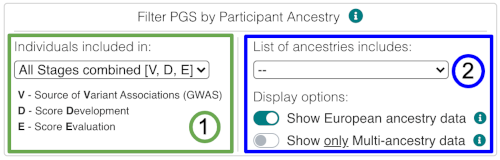
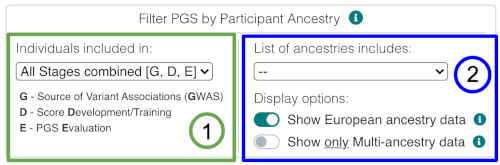
Change the letter 'V' by 'G' and update individuals display

Changed region(s): [[0.0, 0.0, 1.0, 1.0]]

diff --git a/catalog/templates/catalog/docs/ancestry.html b/catalog/templates/catalog/docs/ancestry.html
@@ -89,7 +89,7 @@
         <tbody>
           <!-- Source of Variant Associations (GWAS) -->
           <tr>
-            <td class="pgs_bg_light_grey"><b>Source of <span class="pgs_color_1">V</span>ariant Associations<br/>(GWAS)</b></td>
+            <td class="pgs_bg_light_grey"><b>Source of Variant Associations<br/>(<span class="pgs_color_1">G</span>WAS)</b></td>
             <td>
               <p>
                 Count the total number of individuals in each ancestry display category across all GWAS samples used to develop the score. Samples are labelled Multi-ancestry (including or excluding Europeans) if ancestry-specific numbers are not available (<i>see example</i>).
@@ -212,16 +212,16 @@
       <table class="table table-bordered table-left-col-filled">
         <tbody>
           <tr>
-            <td><b>All Stages combined</b> <span class="text-nowrap">[<span class="pgs_color_1">V</span>, <span class="pgs_color_1">D</span>, <span class="pgs_color_1">E</span>]</span></td>
-            <td>Corresponds to the combination of the stages "Source of <span class="pgs_color_1">V</span>ariant Associations (GWAS)", "Score <span class="pgs_color_1">D</span>evelopment/Training" and "Score <span class="pgs_color_1">E</span>valuation".</td>
+            <td><b>All Stages combined</b> <span class="text-nowrap">[<span class="pgs_color_1">G</span>, <span class="pgs_color_1">D</span>, <span class="pgs_color_1">E</span>]</span></td>
+            <td>Corresponds to the combination of the stages "Source of Variant Associations (<span class="pgs_color_1">G</span>WAS)", "Score <span class="pgs_color_1">D</span>evelopment/Training" and "Score <span class="pgs_color_1">E</span>valuation".</td>
           </tr>
           <tr>
-            <td><b>Development</b> <span class="text-nowrap">[<span class="pgs_color_1">V</span>, <span class="pgs_color_1">D</span>]</span></td>
-            <td>Corresponds to the combination of the stages "Source of <span class="pgs_color_1">V</span>ariant Associations (GWAS)" and "Score <span class="pgs_color_1">D</span>evelopment/Training"</td>
+            <td><b>Development</b> <span class="text-nowrap">[<span class="pgs_color_1">G</span>, <span class="pgs_color_1">D</span>]</span></td>
+            <td>Corresponds to the combination of the stages "Source of Variant Associations (<span class="pgs_color_1">G</span>WAS)" and "Score <span class="pgs_color_1">D</span>evelopment/Training"</td>
           </tr>
           <tr>
-            <td><b>GWAS</b> <span class="text-nowrap">[<span class="pgs_color_1">V</span>]</span></td>
-            <td>Corresponds to the stage "Source of <span class="pgs_color_1">V</span>ariant Associations (GWAS)".</td>
+            <td><b>GWAS</b> <span class="text-nowrap">[<span class="pgs_color_1">G</span>]</span></td>
+            <td>Corresponds to the stage "Source of Variant Associations (<span class="pgs_color_1">G</span>WAS)".</td>
           </tr>
           <tr>
             <td><b>Score Development/Training</b> <span class="text-nowrap">[<span class="pgs_color_1">D</span>]</span></td>
@@ -271,7 +271,7 @@
           <table class="table table-bordered table-left-col-filled">
             <tbody>
               <tr>
-                <td>Study stage:</td><td>GWAS <span class="text-nowrap">[<span class="pgs_color_1">V</span>]</span></td>
+                <td>Study stage:</td><td>GWAS <span class="text-nowrap">[<span class="pgs_color_1">G</span>]</span></td>
               </tr>
               <tr>
                 <td>List of ancestries includes:</td><td><span class="mr-3">--</span><small class="text-nowrap">[default option]</small></td>
@@ -290,7 +290,7 @@
           <table class="table table-bordered table-left-col-filled">
             <tbody>
               <tr>
-                <td>Study stage:</td><td>Development <span class="text-nowrap">[<span class="pgs_color_1">V</span>, <span class="pgs_color_1">D</span>]</span></td>
+                <td>Study stage:</td><td>Development <span class="text-nowrap">[<span class="pgs_color_1">G</span>, <span class="pgs_color_1">D</span>]</span></td>
               </tr>
               <tr>
                 <td>List of ancestries includes:</td><td><span class="mr-3">--</span><small class="text-nowrap">[default option]</small></td>

diff --git a/catalog/static/catalog/pgs.scss b/catalog/static/catalog/pgs.scss
@@ -18,10 +18,12 @@ $pgs_light_grey2: #FAFAFA;
 $pgs_note_title_1: $pgs_colour_1;
 $pgs_note_title_2: #F00;
 $pgs_note_title_3: $pgs_colour_2;
-$pgs_dev: #577284;
 $pgs_facet_1: $pgs_colour_2;
-$pgs_facet_2: #f58f22;
+$pgs_facet_2: #F58F22;
 $pgs_facet_3: $pgs_dark2;
+$pgs_cases: #3E95CD;
+$pgs_controls: #8E5EA2;
+$pgs_male: #F18F2B;
 
 $pgs_colour_red: #E00;
 $pgs_colour_amber: #FFA500;
@@ -783,7 +785,6 @@ td > ul {
 /* Icons related CSS */
 .external-link:after {
   font-family: "Font Awesome 5 Free";
-  //content:"\f08e";
   content: "\f35d";
   display: inline-block;
   font-size: 0.6rem;
@@ -1190,6 +1191,30 @@ a.link-with-btn {
   div {
     padding: 15px 0px;
   }
+}
+
+.individuals_count:before,
+.sample_individuals:before,
+.sample_cases:before,
+.sample_controls:before,
+.sample_male:before
+ {
+  font-family: "Font Awesome 5 Free";
+  content: "\f007";
+  font-weight: 400;
+  padding-right: 8px;
+}
+.individuals_count:before {
+  padding-right: 4px !important;
+}
+.sample_cases:before {
+  color: $pgs_cases;
+}
+.sample_controls:before {
+  color: $pgs_controls;
+}
+.sample_male:before {
+  color: $pgs_male;
 }
 
 .sample_sub_section {
@@ -1669,15 +1694,15 @@ footer {
     margin-bottom:$footer_height_mobile;
   }
   .container-fluid {
-    padding-left: 1rem;
-    padding-right:1rem;
+    padding-left: 0.5rem;
+    padding-right:0.5rem;
   }
   .release_label {
     top: -25px;
   }
 
   .feedback {
-    width: 53px;
+    width: 60px;
     height:auto;
     #feedback-btn {
       height: 25px;

diff --git a/catalog/templates/catalog/pss.html b/catalog/templates/catalog/pss.html
@@ -79,17 +79,15 @@
               <tbody>
                 <tr>
                   <td>Total number</td>
-                  <td><b> {{ sample.display_sample_number_total }}</b></td>
+                  <td><div class="sample_individuals"><b>{{ sample.display_sample_number_total }}</b></div></td>
                 </tr>
                 {% if sample.display_sample_number_detail|length > 0 %}
                   <tr>
                     <td>Detailed numbers</td>
                     <td>
-                      <ul>
-                        {% for numbers in sample.display_sample_number_detail %}
-                          <li>{{ numbers }}</li>
-                        {% endfor %}
-                      </ul>
+                      {% for numbers in sample.display_sample_number_detail %}
+                        {{ numbers|safe }}
+                      {% endfor %}
                     </td>
                   </tr>
                 {% endif %}

diff --git a/catalog/static/catalog/pgs.js b/catalog/static/catalog/pgs.js
@@ -1,6 +1,6 @@
 
 var anc_types = {
-  'gwas': 'V',
+  'gwas': 'G',
   'dev' : 'D',
   'eval': 'E'
 };
@@ -52,11 +52,15 @@ $(document).ready(function() {
       var anc_width = 40;
       var anc_height = 40;
 
+      // Magic formula to convert RGB colours to HEX
+      const rgb2hex = (rgb) => `#${rgb.match(/^rgb\((\d+),\s*(\d+),\s*(\d+)\)$/).slice(1).map(n => parseInt(n, 10).toString(16).padStart(2, '0')).join('')}`
+
       anc_colours = {};
       $('.ancestry_box_legend').each(function() {
         var key = $(this).data('key');
         var colour = $(this).css('color');
-        anc_colours[key] = colour;
+        var hex_colour = rgb2hex(colour);
+        anc_colours[key] = hex_colour;
       });
 
       var anc_svgs = {};

diff --git a/catalog/templates/catalog/pgs_catalog_django_table.html b/catalog/templates/catalog/pgs_catalog_django_table.html
@@ -14,6 +14,7 @@
           data-pagination="true"
           data-page-size="15"
           data-page-list="[15, 25, 50, 100, 200, All]"
+          data-show-fullscreen="true"
           data-export-data-type="all"
           data-export-types="['json', 'xml', 'csv', 'txt', 'excel']">
             {% block table.thead %}

diff --git a/catalog/tables.py b/catalog/tables.py
@@ -419,6 +419,7 @@ class Browse_ScoreTableExample(Browse_ScoreTable):
             "data-show-columns" : "false",
             "data-show-export" : "false",
             "data-pagination" : "false",
+            "data-show-fullscreen" : "false",
             "data-search" : "false"
         }
         template_name = 'catalog/pgs_catalog_django_table.html'
@@ -543,6 +544,7 @@ class SampleTable_performance(tables.Table):
         attrs = {
             "id": "samples_table",
             "data-show-columns" : "true",
+            "data-show-toggle" : "true",
             "data-sort-name" : "display_sampleset",
             "data-export-options" : '{"fileName": "pgs_sample_evaluation_data"}'
         }
@@ -585,6 +587,7 @@ class PerformanceTable(tables.Table):
         attrs = {
             "id": "performances_table",
             "data-show-columns" : "true",
+            "data-show-toggle" : "true",
             "data-sort-name" : "id",
             "data-export-options" : '{"fileName": "pgs_performance_metrics_data"}'
         }
@@ -599,8 +602,8 @@ class PerformanceTable(tables.Table):
     def render_sampleset(self, value):
         ancestry_key = value.samples_combined_ancestry_key
         ancestry = constants.ANCESTRY_GROUP_LABELS[ancestry_key]
-        count_ind = common.individuals_format(value.count_individuals)
-        return format_html('<a href="#{}">{}</a><span class="only_export">|</span><div class="small"><i class="fas fa-square anc_colour_{}"></i> {}</div><span class="only_export">|</span><div class="small"><i class="far fa-user"></i> {}</div>', value, value, ancestry_key, ancestry,count_ind)
+        count_ind = common.individuals_format(value.count_individuals,True)
+        return format_html('<a href="#{}">{}</a><span class="only_export">|</span><div class="small"><i class="fas fa-square anc_colour_{} mr-1"></i>{}<span class="only_export">|</span>{}</div>', value, value, ancestry_key, ancestry,count_ind)
 
     def render_score(self, value):
         return score_format(value)

diff --git a/catalog/views.py b/catalog/views.py
@@ -99,14 +99,14 @@ def ancestry_form():
               <div style="float:left">
                 <div class="filter_subheader mb-1">Individuals included in:</div>
                   <select id="ancestry_type_list">
-                    <option value="all" selected>All Stages combined [V, D, E]</option>
-                    <option value="dev_all">Development [V, D]</option>
-                    <option value="gwas">&nbsp;&nbsp;- GWAS [V]</option>
+                    <option value="all" selected>All Stages combined [G, D, E]</option>
+                    <option value="dev_all">Development [G, D]</option>
+                    <option value="gwas">&nbsp;&nbsp;- GWAS [G]</option>
                     <option value="dev">&nbsp;&nbsp;- Score development [D]</option>
                     <option value="eval">PGS Evaluation [E]</option>
                   </select>
                   <div class="ancestry_legend pl-1 mt-2">
-                    <div><b>V</b> - Source of <b>V</b>ariant Associations (GWAS)</div>
+                    <div><b>G</b> - Source of Variant Associations (<b>G</b>WAS)</div>
                     <div><b>D</b> - Score <b>D</b>evelopment/Training</div>
                     <div><b>E</b> - PGS <b>E</b>valuation</div>
                   </div>

diff --git a/catalog/models.py b/catalog/models.py
@@ -526,11 +526,11 @@ class Sample(models.Model):
     def display_sample_number_detail(self):
         sinfo = []
         if self.sample_cases != None:
-            sinfo.append('<i class="far fa-user mr-2" style="color:#3E95CD"></i>{:,} cases ({}%)'.format(self.sample_cases, self.sample_cases_percent))
+            sinfo.append('<div class="sample_cases">{:,} cases ({}%)</div>'.format(self.sample_cases, self.sample_cases_percent))
             if self.sample_controls != None:
-                sinfo.append('<i class="far fa-user mr-2" style="color:#8E5EA2"></i>{:,} controls'.format(self.sample_controls))
+                sinfo.append('<div class="sample_controls">{:,} controls</div>'.format(self.sample_controls))
         if self.sample_percent_male != None:
-            sinfo.append('<i class="far fa-user mr-2" style="color:#F18F2B"></i>%s%% Male samples'%str(round(self.sample_percent_male,2)))
+            sinfo.append('<div class="sample_male">%s%% Male samples</div>'%str(round(self.sample_percent_male,2)))
         return sinfo
 
     @property

diff --git a/catalog/common.py b/catalog/common.py
@@ -1,9 +1,8 @@
 from django.utils.html import format_html
-from pgs_web import constants
 
 
 def individuals_format(value, use_icon=None):
     html = '{:,} individuals'.format(value)
     if use_icon:
-        html = f'<i class="far fa-user"></i> {html}'
+        html = f'<div class="individuals_count">{html}</div>'
     return format_html(html)
